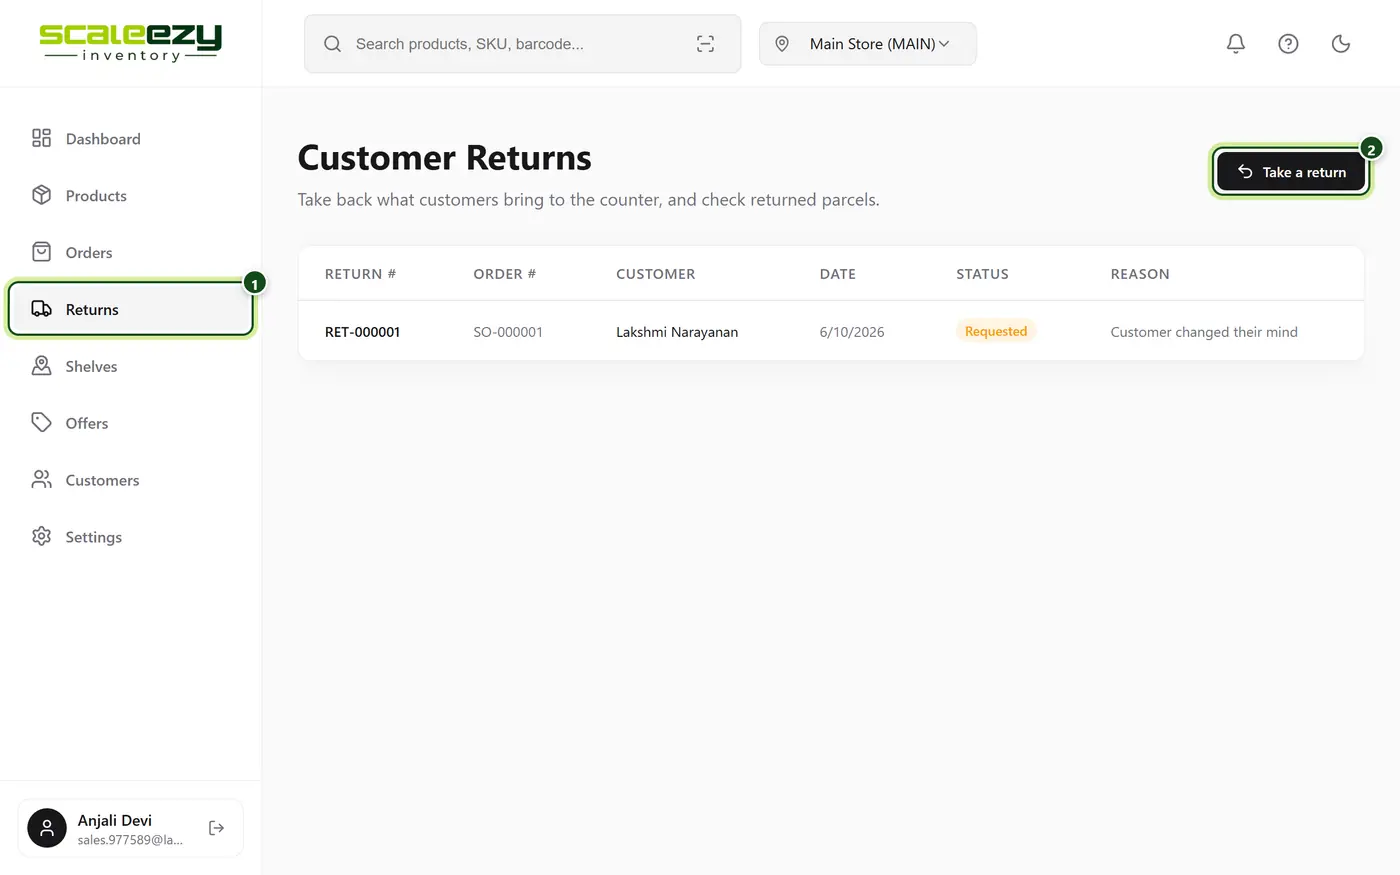
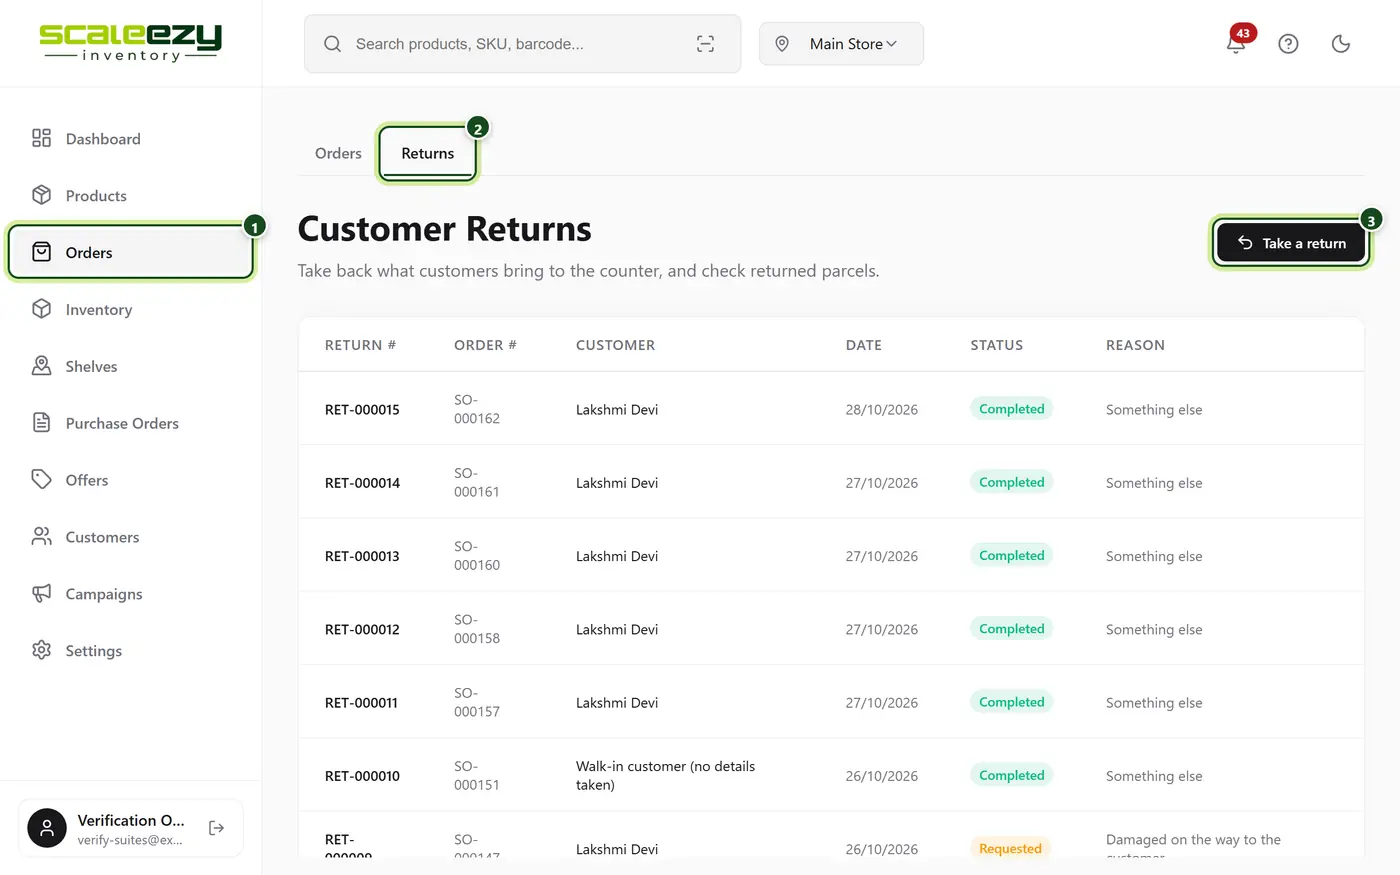
Help: Returns is a tab in Orders, not in the side menu (5 languages, new pictures)

diff --git a/src/help/content/returns/take-a-return.hi.md b/src/help/content/returns/take-a-return.hi.md
@@ -13,14 +13,14 @@ keywords: रिटर्न वापसी काउंटर वापस ल
 
 ## 1. बिल ढूँढें
 
-1. बाईं ओर के मेन्यू में [[1]] **Returns** दबाएँ, फिर [[2]] **Take a return**। या ऑर्डर पर या उसकी रसीद पर **Take a return** दबाएँ।
+1. बाईं ओर के मेन्यू में [[1]] **Orders** दबाएँ, फिर ऊपर [[2]] **Returns** टैब, फिर [[3]] **Take a return**। या ऑर्डर पर या उसकी रसीद पर **Take a return** दबाएँ।
 
-![Returns पेज। मेन्यू में Returns पर 1 और Take a return पर 2 लिखा है।](1-open.webp "सेल्स स्टाफ़ भी काउंटर पर रिटर्न ले सकता है।")
+![Customer Returns पेज। मेन्यू में Orders पर 1, Returns टैब पर 2 और Take a return पर 3 लिखा है।](1-open.webp "सेल्स स्टाफ़ भी काउंटर पर रिटर्न ले सकता है।")
 
-2. [[3]] रसीद पर लिखा बिल नंबर टाइप करें (जैसे *SO-000123*, या सिर्फ़ *123*), या ग्राहक का फ़ोन नंबर या नाम।
-3. [[4]] सही बिल दबाएँ। उसमें लिखा होता है कि अभी कितने पीस वापस आ सकते हैं।
+2. [[4]] रसीद पर लिखा बिल नंबर टाइप करें (जैसे *SO-000123*, या सिर्फ़ *123*), या ग्राहक का फ़ोन नंबर या नाम।
+3. [[5]] सही बिल दबाएँ। उसमें लिखा होता है कि अभी कितने पीस वापस आ सकते हैं।
 
-![बिल ढूँढें। बिल नंबर वाले सर्च बॉक्स पर 3 और मिले हुए बिल पर, जिसके 2 पीस वापस आ सकते हैं, 4 लिखा है।](2-find-the-bill.webp "जिन बिलों में लौटाने को कुछ नहीं बचा, वे धूसर दिखते हैं।")
+![बिल ढूँढें। Lakshmi नाम वाले सर्च बॉक्स पर 4 और बिल SO-000162 पर, जिसके 2 पीस वापस आ सकते हैं, 5 लिखा है।](2-find-the-bill.webp "जिन बिलों में लौटाने को कुछ नहीं बचा, वे धूसर दिखते हैं।")
 
 ## 2. चुनें कि क्या वापस आ रहा है
 
@@ -69,13 +69,13 @@ keywords: रिटर्न वापसी काउंटर वापस ल
 
 ## 6. बाद में
 
-- रिटर्न **Returns** में होता है, काउंटर पर लिया गया लिखा हुआ। रिटर्न नोट प्रिंट करने या भेजने के लिए इसे खोलें।
+- रिटर्न **Orders** के **Returns** टैब में होता है, काउंटर पर लिया गया लिखा हुआ। रिटर्न नोट प्रिंट करने या भेजने के लिए इसे खोलें।
 - बिल दिखाता है कि कितना लौटाया गया।
 - **Day Book** लिए और लौटाए गए पैसे, और ड्रॉअर में कितना कैश होना चाहिए, दिखाती है।
 - ग्राहक के पेज पर उनका **Store credit** दिखता है। मैनेजर इसे **Pay out in money** से पैसे में दे सकता है।
 
 :::faq बिल कहता है सब कुछ पहले ही वापस आ चुका है
-हर पीस पहले ही लौटाया जा चुका है, या किसी ऐसे रिटर्न में है जो अभी खुला है। **Returns** देखें।
+हर पीस पहले ही लौटाया जा चुका है, या किसी ऐसे रिटर्न में है जो अभी खुला है। **Orders** में **Returns** टैब देखें।
 :::
 
 :::faq लिखा आ रहा है कि यह रिटर्न मैनेजर को लेना होगा

diff --git a/src/help/content/returns/take-a-return.md b/src/help/content/returns/take-a-return.md
@@ -14,14 +14,14 @@ When the customer is standing at the counter with the piece, you do not need the
 
 ## 1. Find the bill
 
-1. In the menu on the left, click [[1]] **Returns**, then [[2]] **Take a return**. Or, on the order or its receipt, click **Take a return**.
+1. In the menu on the left, click [[1]] **Orders**, then the [[2]] **Returns** tab at the top, then [[3]] **Take a return**. Or, on the order or its receipt, click **Take a return**.
 
-![The Returns page. Returns is marked 1 in the menu and Take a return 2.](1-open.webp "Sales staff can take returns at the counter too.")
+![The Customer Returns page. Orders is marked 1 in the menu, the Returns tab 2 and Take a return 3.](1-open.webp "Sales staff can take returns at the counter too.")
 
-2. [[3]] Type the bill number from the receipt (for example *SO-000123*, or just *123*), or the customer's phone number or name.
-3. [[4]] Click the right bill. It says how many pieces can still come back.
+2. [[4]] Type the bill number from the receipt (for example *SO-000123*, or just *123*), or the customer's phone number or name.
+3. [[5]] Click the right bill. It says how many pieces can still come back.
 
-![Find the bill. The search box with the bill number is marked 3 and the bill found, with 2 pieces that can come back, 4.](2-find-the-bill.webp "Bills with nothing left to return are grey.")
+![Find the bill. The search box with the name Lakshmi is marked 4 and the bill SO-000162, with 2 pieces that can come back, 5.](2-find-the-bill.webp "Bills with nothing left to return are grey.")
 
 ## 2. Choose what is coming back
 
@@ -70,13 +70,13 @@ Past either limit, the screen says a manager is needed, and why. A manager (anyo
 
 ## 6. Afterwards
 
-- The return is in **Returns**, marked as taken at the counter. Open it to print or send the return note.
+- The return is in the **Returns** tab of **Orders**, marked as taken at the counter. Open it to print or send the return note.
 - The bill shows what was paid back.
 - The **Day Book** shows money taken and paid back, and the cash that should be in the drawer.
 - A customer's page shows their **Store credit**. A manager can pay it out in money with **Pay out in money**.
 
 :::faq The bill says everything already came back
-Every piece has been returned already, or is on a return that is still open. Check **Returns**.
+Every piece has been returned already, or is on a return that is still open. Check the **Returns** tab in **Orders**.
 :::
 
 :::faq It says a manager needs to take this return
